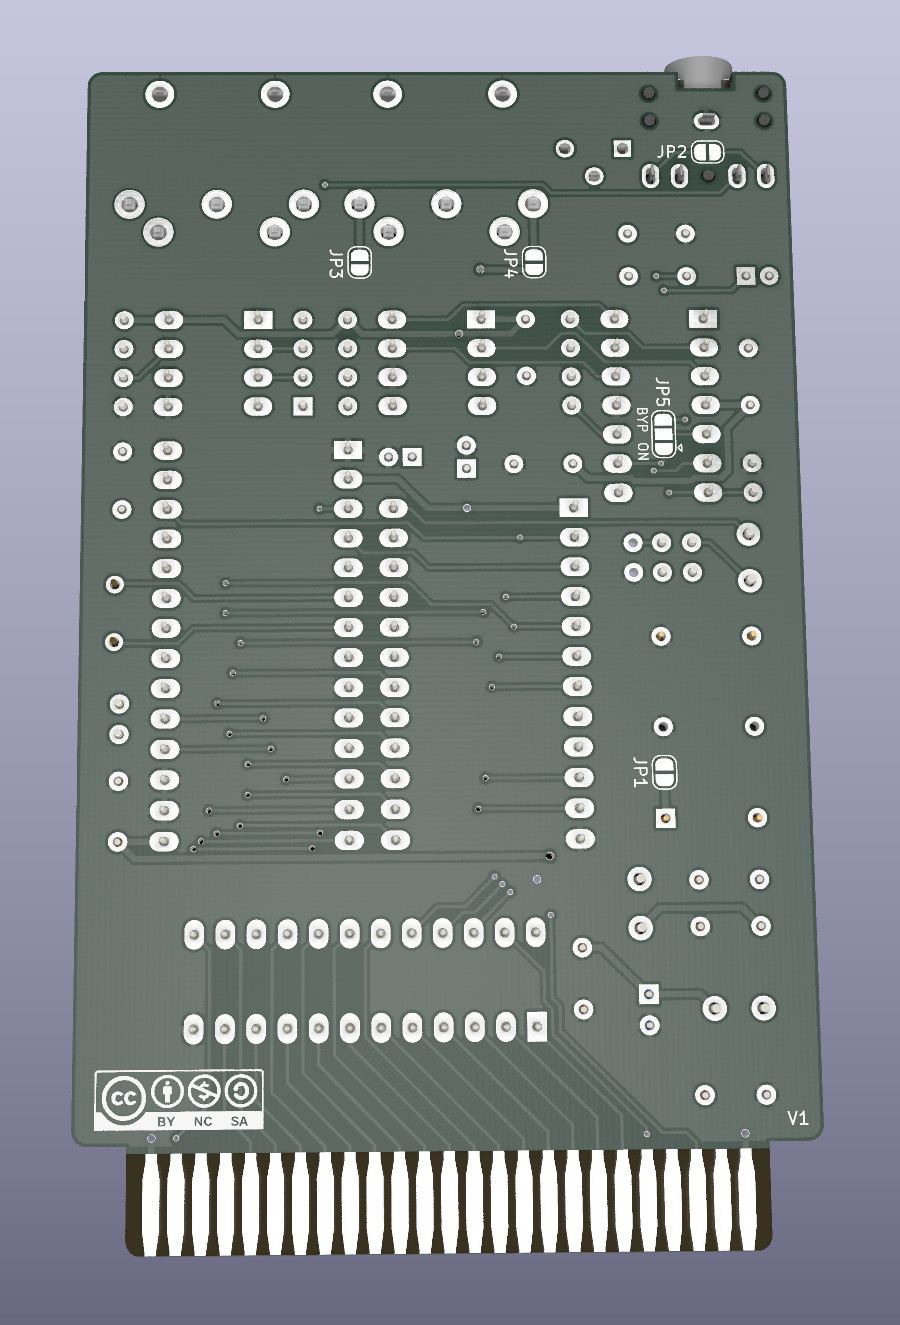
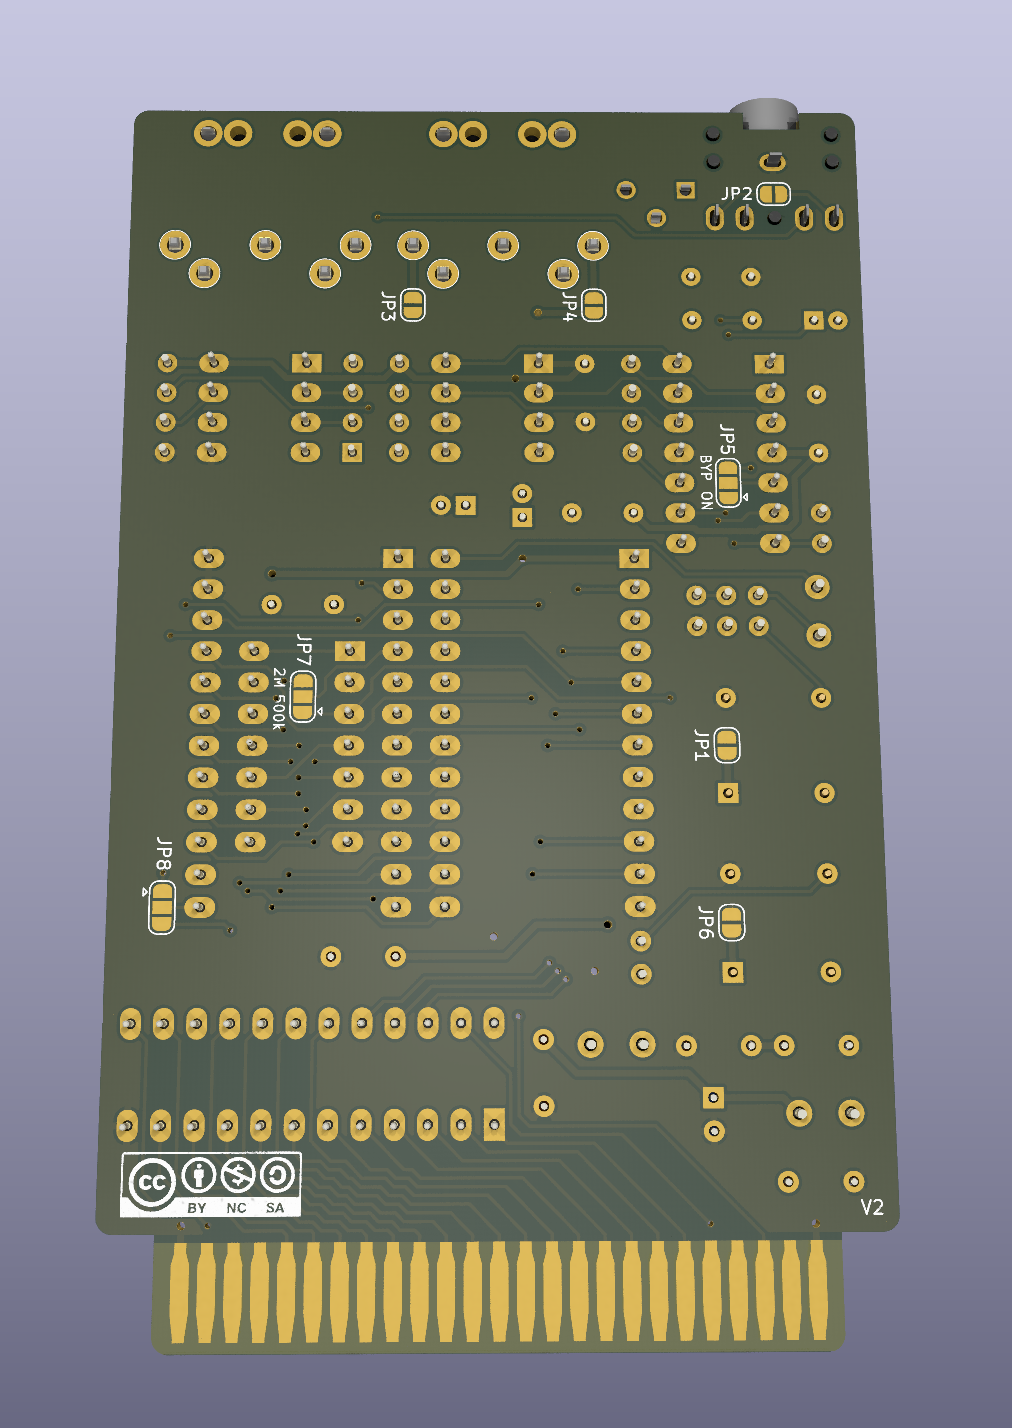
Update renders

diff --git a/README.md b/README.md
@@ -1,4 +1,9 @@
 # SoundX
+
+![GitHub release (latest by date)](https://img.shields.io/github/v/release/SukkoPera/SoundX)
+![GitHub Release Date](https://img.shields.io/github/release-date/SukkoPera/SoundX?color=blue&label=last%20release)
+![GitHub commits since latest release (by date)](https://img.shields.io/github/commits-since/SukkoPera/SoundX/latest?color=orange)
+
 SoundX is an Open Hardware sound card for the Commodore 16, 116 and Plus/4 home computers based on the Yamaha OPL/OPL-II chip.
 
 ![Board](https://raw.githubusercontent.com/SukkoPera/SoundX/master/img/render-top.png)
